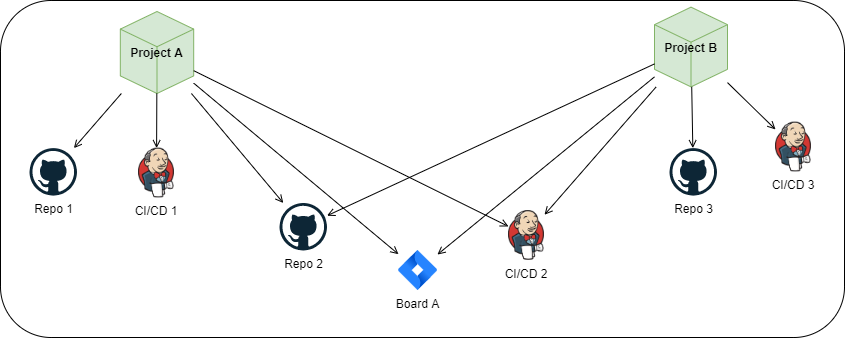
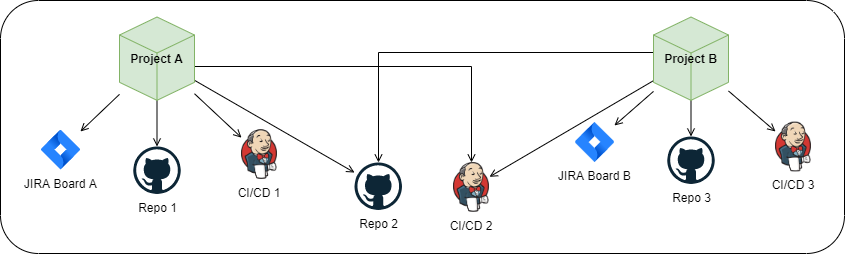
Co-authored-by: Startrekzky <kaiyun.zhang@merico.dev> docs: Add DevLake + DevStream use case

diff --git a/docs/_temp/Installation.md b/docs/_temp/Installation.md
@@ -59,16 +59,70 @@ or CI/CD (e.g. GitLab CI, Azure DevOps).
 ## 4. Use Cases
 This section demonstrates real-life situations and how they get reflected in DevLake.
 
-### 4.1. Use Case 1
+### 4.1. Use Case 1: Projects DevLake and DevStream
+DevLake and [DevStream](https://github.com/devstream-io/devstream) are both Apache `projects`.
+DevLake manages 3 `repos`: [incubator-devlake](https://github.com/apache/incubator-devlake), 
+[incubator-devlake-website](https://github.com/apache/incubator-devlake-website), 
+and [incubator-devlake-helm-chart](https://github.com/apache/incubator-devlake-helm-chart).
+DevStream also manages 3 `repos`: [devstream](https://github.com/devstream-io/devstream),
+[website](https://github.com/devstream-io/website), and [blog](https://github.com/devstream-io/blog).
+
+![](project_use_case_1.png)
+
+Both projects use GitHub for storing code (including `pull requests`), `deployments` on GitHub Actions, and `incidents`.
+
+_Note: to avoid confusion between DevLake as a `project` in this use case and DevLake as a platform,
+we will use complete names i.e. `project DevLake` and `platform DevLake` respectively._
+
+#### 4.2.1. Organizing Projects
+First, we create 2 `projects` on DevLake platform, representing both project DevLake and DevStream.
+These steps will suffice for now:
+
+![](create_project_1.png)
+![](create_project_2.png)
+
+Later, we will bind connections that we create in the following steps. We just need to create them first.
+
+#### 4.2.2. Creating Connections
+
+Since all is on GitHub in this case, we can use just 1 connection with following properties:
+- it includes all the `project's repositories`
+- its scope includes everything we work with (i.e. `pull requests`, `deployments`, and `incidents`)
+
+If you store `incidents` on Jira, for example, you will need to create a separate connection just for them.
+Same applies to `deployments`, a separate connection is needed in case they are stored in Jenkins (or any other host for `deployments`).
+
+#### 4.2.3. Configuring Connections
+Check the [Configuration Guide](/docs/Configuration) section to configure the connection of your interest.
+
+### 4.2.4 Using connections
+
+TODO: How we use the `connections` for projects, defining their `cicd_scopes`. More screenshots
+
+### 4.2.5. Results
+
+This is how the projects should look like after performing all the steps
+
+TODO: Screenshot: project list view
+TODO: Screenshot: project 1 detail view
+TODO: Screenshot: project 2 detail view
+
+
+
+
+
+
+
+### 4.2. Use Case 2: Repository Intersection
 
 There are `2 projects` with `2 boards`, 3 `repos`, and 3 `cicd pipelines`. 
 One of the repos is shared between both projects.
 
-![](project_use_case_1.png)
+![](project_use_case_2.png)
 
 Let's build this example.
 
-#### 4.1.1. Organizing Projects
+#### 4.2.1. Organizing Projects
 DORA is good for seeing the effects of the new changes in team's methodology.
 However, for DORA itself **there are no teams**, only projects. 
 The `team` concept is redundant and only introduces noise and complexity, for no benefit.
@@ -77,54 +131,39 @@ So we will create 2 `projects` on DevLake to reflect those we are working with.
 ![](create_project_1.png)
 ![](create_project_2.png)
 
-#### 4.1.2. Creating Connections
+#### 4.2.2. Creating Connections
 
 For GitHub `repos` we will create:
-- 1 connection for Team A
-- 1 connection for Team B
+- 1 connection for Project A
+- 1 connection for Project B
 - 1 connection for shared repository
 
-TODO: or just 1 connection per team with all necessary repos?
-
-So we can simply combine work in the `shared repo` with each of the teams.
+So we can simply combine work in the `shared repo` with each of the `projects`.
 The connections to retrieve the `deployments` of Jenkins will be arranged the same way.
 
-For JIRA `incident boards` we will create 1 connection per each board.
+For JIRA `incident boards` we will just create 1 connection per each board.
 
-#### 4.1.3. Configuring GitHub Connection
-1. Create a GitHub access token specified in the [official GitHub Guide](https://docs.github.com/en/authentication/keeping-your-account-and-data-secure/managing-your-personal-access-tokens#creating-a-personal-access-token-classic)
-2. Navigate to the "Connections" view
-![](configure_connection_github_1.png)
-3. Click "Create New Connection" and fill the form similar as specified in the following screenshots.
-![](configure_connection_github_2.png)
-![](configure_connection_github_3.png)
-4. ⚠ Warning: Make sure the token has the fields repo:status, repo_deployment, read:user, read:org. 
-   - If collecting private repositories, also include the repo field.
-5. Click "Test Connection". If no error appears, click "Save Connection".
+#### 4.2.3. Configuring Connections
+Check the [Configuration Guide](/docs/Configuration) section to configure the connection of your interest.
 
-#### 4.1.4. Configuring GitHub Connection Scope
-TODO
-
-#### 4.1.5. JIRA
-TODO: screenshots
-
-#### 4.1.6. Jenkins
-TODO: screenshots
-
-### 4.1.7 Using connections
+### 4.2.4 Using connections
 
 TODO: How we use the `connections` for projects, defining their `cicd_scopes`. More screenshots
 
-### 4.1.8. Building the project
+### 4.2.5. Results
 
-TODO: final screenshots for collecting data
+This is how the projects should look like after performing all the steps
+
+TODO: Screenshot: project list view
+TODO: Screenshot: project 1 detail view
+TODO: Screenshot: project 2 detail view
 
 
-### 4.2. Building use case 2
+### 4.3. Use Case 3: Also Board Intersection...
 
-Some teams may have shared `JIRA boards`. Assume the Use Case 1 but with this difference:
+Some `projects` may have shared `JIRA boards`. Assume the Use Case 2 but with this difference:
 
-![](project_use_case_2.png)
+![](project_use_case_3.png)
 
 ## 5. How do I know if the data of a project is successfully collected?
 
